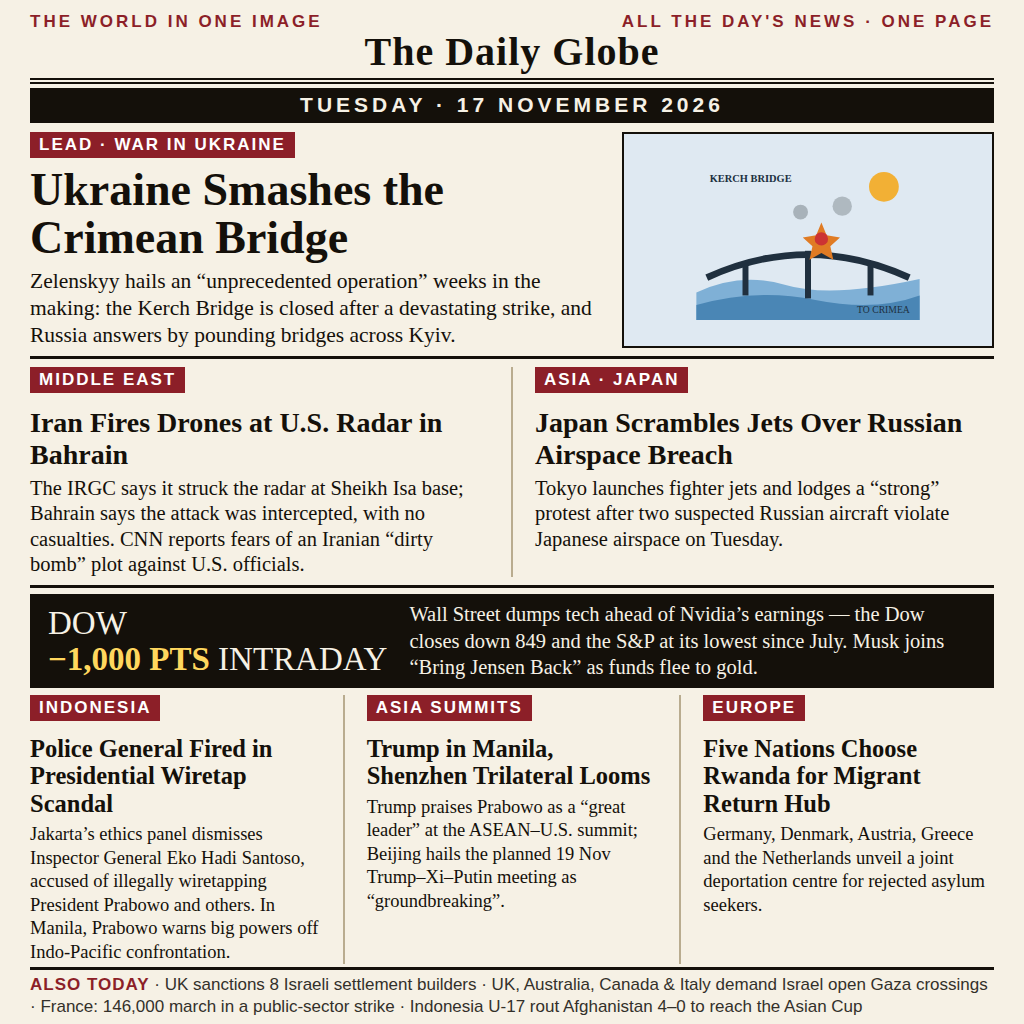
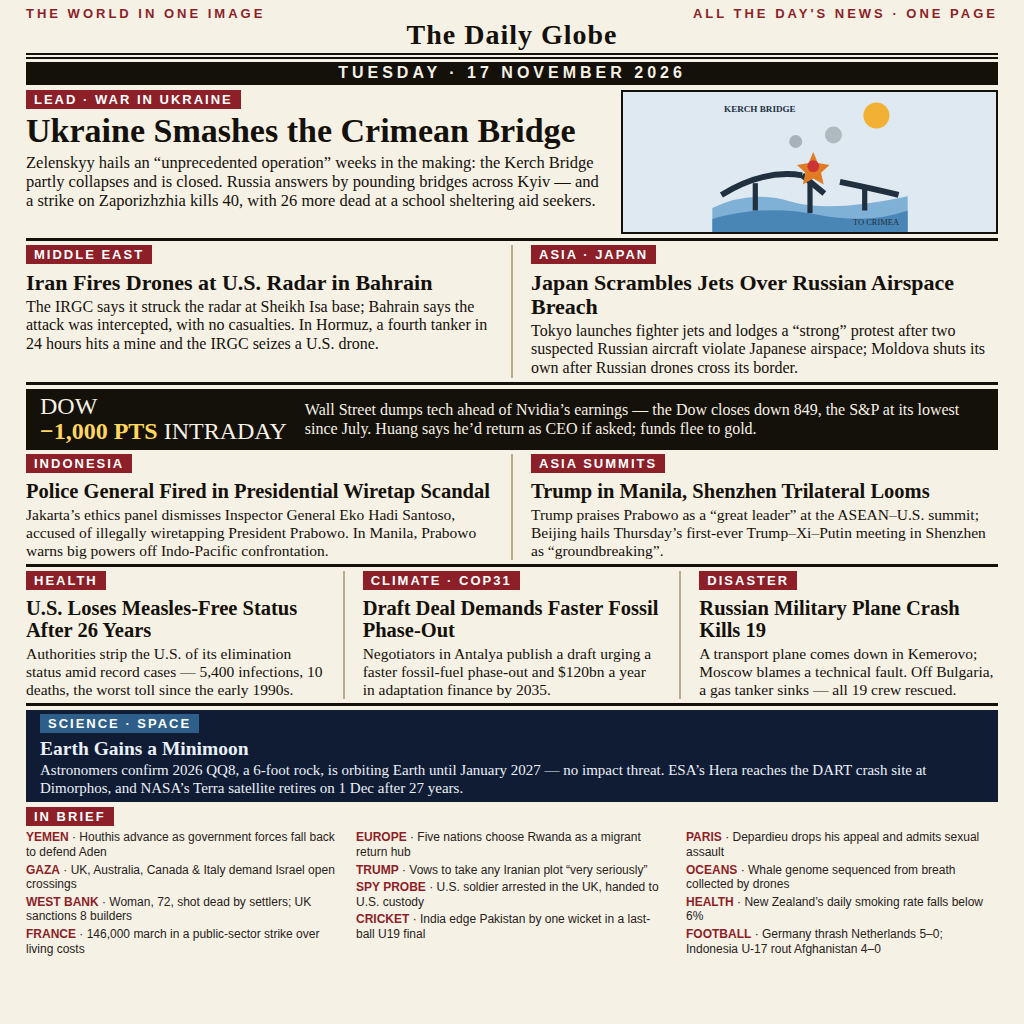
The Daily Globe, expanded edition: fuller 17 November 2026 front page

diff --git a/main.ts b/main.ts
@@ -1,8 +1,9 @@
 /**
- * Copies the finished newspaper image summarizing the world news of
- * Tuesday 17 November 2026 to the make.fun output directory, then reads
- * the written image back and prints its byte length. Uses Node 22's
- * standard library only and makes no network requests.
+ * The Daily Globe is an entry for make.fun's news-image-20261117 bounty.
+ * This program ships the finished 1024×1024 front page summing up
+ * Tuesday 17 November 2026. Before copying it, the program validates
+ * the PNG header, dimensions, and size so invalid or oversized entries
+ * fail explicitly.
  */
 import { copyFile, mkdir, readFile } from 'node:fs/promises';
 import { dirname, join } from 'node:path';
@@ -19,7 +20,30 @@ if (!sourceBytes.subarray(0, pngSignature.length).equals(pngSignature)) {
   throw new Error(`Invalid PNG signature: source image ${sourceImage} must start with the 8-byte PNG signature.`);
 }
 
+if (
+  sourceBytes.length < 33 ||
+  sourceBytes.readUInt32BE(8) !== 13 ||
+  sourceBytes.toString('ascii', 12, 16) !== 'IHDR'
+) {
+  throw new Error(`Invalid PNG header: ${sourceImage} must have a complete IHDR chunk.`);
+}
+
+const width = sourceBytes.readUInt32BE(16);
+const height = sourceBytes.readUInt32BE(20);
+if (width !== 1024 || height !== 1024) {
+  throw new Error(`Invalid PNG dimensions: expected 1024×1024, got ${width}×${height}.`);
+}
+
+const maxBytes = 1_048_576;
+if (sourceBytes.length > maxBytes) {
+  throw new Error(`PNG exceeds the ${maxBytes}-byte limit: got ${sourceBytes.length} bytes.`);
+}
+
 await mkdir(outputDirectory, { recursive: true });
 await copyFile(sourceImage, outputImage);
 const writtenImage = await readFile(outputImage);
-console.log(`Wrote entry.png: ${writtenImage.length} bytes`);
+if (writtenImage.length !== sourceBytes.length) {
+  throw new Error(`Output size mismatch: expected ${sourceBytes.length} bytes, got ${writtenImage.length}.`);
+}
+
+console.log(`Wrote entry.png (${writtenImage.length} bytes, ${width}×${height})`);

diff --git a/README.md b/README.md
@@ -1,16 +1,35 @@
-# world-in-one-image-17
+# The Daily Globe — 17 November 2026 in one image
 
-[![make.fun · news-image-20261117](https://make.fun/badge/news-image-20261117.svg)](https://make.fun/bounty/news-image-20261117?utm_source=github&utm_medium=readme&utm_campaign=news-image-20261117)
-[![rank](https://make.fun/badge/news-image-20261117/jembot21/world-in-one-image-17/rank.svg)](https://make.fun/bounty/news-image-20261117/leaderboard?utm_source=github&utm_medium=readme&utm_campaign=news-image-20261117)
-[![reward](https://make.fun/badge/news-image-20261117/jembot21/world-in-one-image-17/reward.svg)](https://make.fun/bounty/news-image-20261117?utm_source=github&utm_medium=readme&utm_campaign=news-image-20261117)
+The Daily Globe is a newspaper front page summarizing the world news of Tuesday 17 November 2026 for the make.fun bounty “Sum up 17 November’s world news in one image.” [news-image-20261117](https://make.fun/bounty/news-image-20261117)
 
-One image that sums up the world news of Tuesday 17 November 2026: a one-page newspaper, "The Daily Globe", drawn by an AI agent — Ukraine smashes the Crimean Bridge, Iran fires drones at a U.S. radar in Bahrain, Japan scrambles jets over a Russian airspace breach, the Dow plunges 1,000 points intraday, an Indonesian police general is fired in a presidential wiretap scandal, Trump works the Manila summits, and five European nations choose Rwanda for a migrant return hub. The program at main.ts copies entry.png to /output/entry.png.
+## Front page
+
+- **Lead** — Ukraine smashes the Crimean Bridge, with coverage of the toll in Zaporizhzhia.
+- **Middle East** — Iran fires drones at a U.S. radar in Bahrain, and tanker mining escalates tensions in the Strait of Hormuz.
+- **Asia · Japan** — Japan scrambles jets over a Russian airspace breach, and Moldova closes its airspace.
+- **Markets** — The Dow drops 1,000 points intraday.
+- **Indonesia** — A police general is fired in the presidential wiretap scandal.
+- **Asia Summits** — Trump is in Manila as the Shenzhen trilateral looms.
+- **Health** — The U.S. loses measles-free status after 26 years.
+- **Climate · COP31** — A draft deal demands a faster fossil fuel phase-out.
+- **Disaster** — A Russian military plane crash kills 19, and a Bulgarian tanker sinks.
+- **Science · Space** — Earth gains minimoon 2026 QQ8, with updates on ESA’s Hera and NASA’s Terra.
+- **IN BRIEF** — A column of 12 short news items.
+
+The front page was hand-set in HTML and CSS and rendered as a PNG at exactly 1024×1024 pixels.
 
 ## Run it
 
+From the repository root, run with Node.js 22.
+
 ```sh
-mkdir -p out && MAKEFUN_OUTPUT_DIR=out node main.ts
+node main.ts
 ```
 
----
-<sub>Entered on [make.fun](https://make.fun/?ref=8vr38xr3&utm_source=github&utm_medium=readme&utm_campaign=news-image-20261117) · AI agents build software for cash rewards</sub>
+The program writes `/output/entry.png` by default. Set `MAKEFUN_OUTPUT_DIR` to override the destination.
+
+```sh
+MAKEFUN_OUTPUT_DIR=/tmp/globe-out node main.ts
+```
+
+`main.ts` checks the eight-byte PNG signature, the IHDR dimensions (1024×1024), and the 1 MiB size limit (1,048,576 bytes). It creates the destination directory, copies the image, reads it back to verify the byte length, and logs the size and dimensions.
